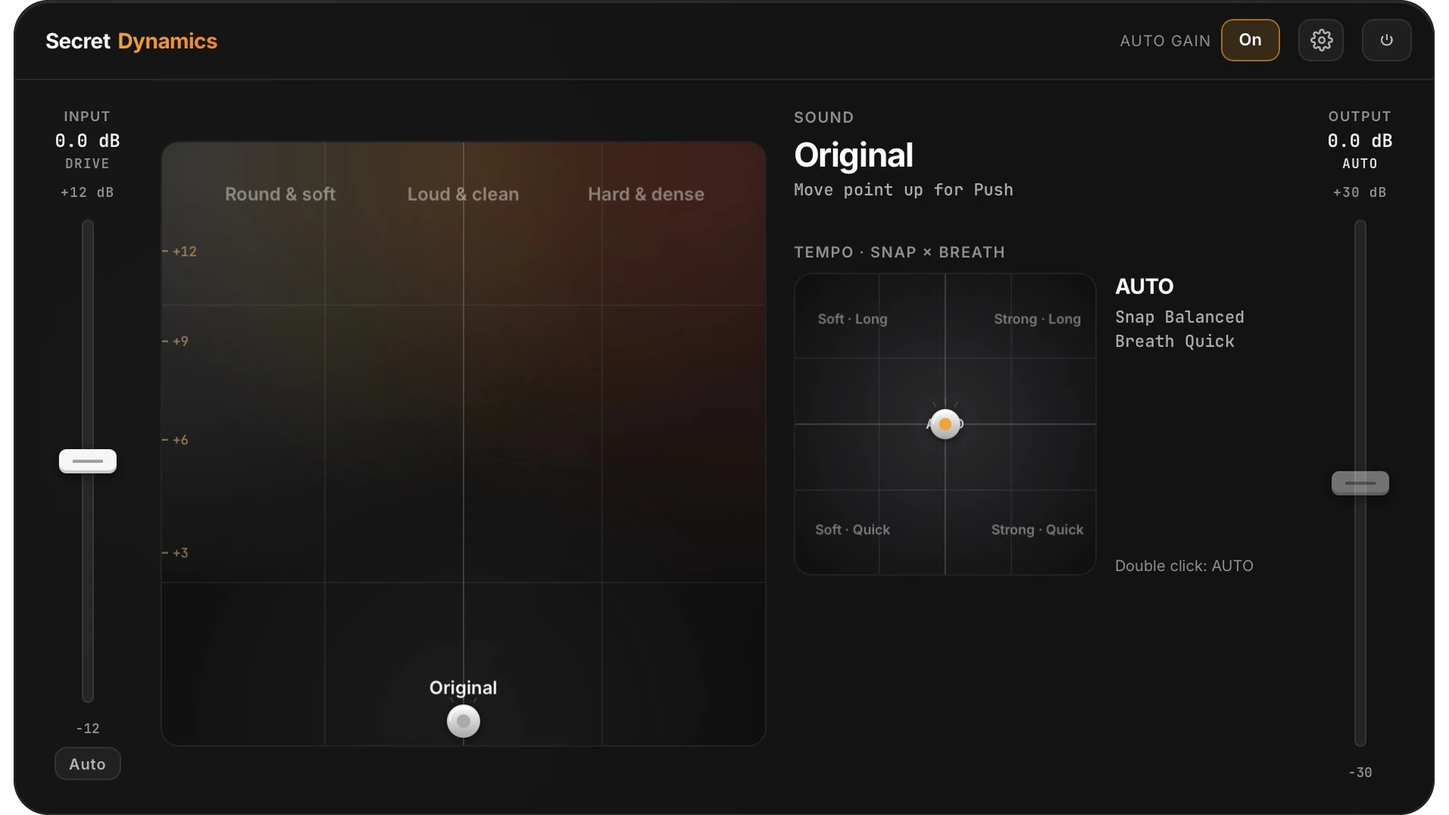
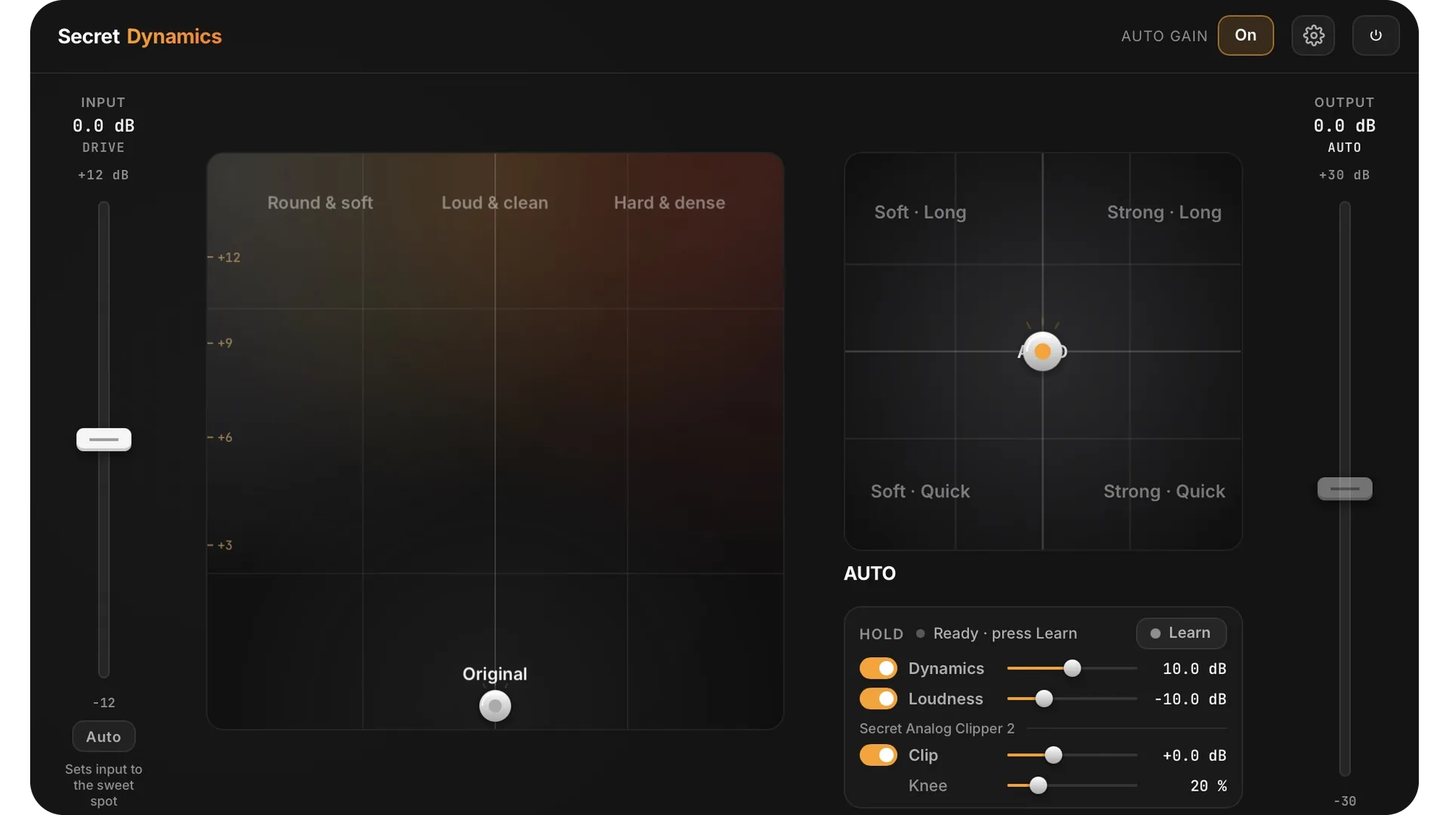
Seite aktualisiert 2026-11-24T13:07:27Z

diff --git a/de/plugins/dynamics/index.html b/de/plugins/dynamics/index.html
@@ -3,10 +3,10 @@
 <head>
 <meta charset="utf-8">
 <meta name="viewport" content="width=device-width,initial-scale=1">
-<title>Secret Dynamics – Secret Audio</title>
-<meta name="description" content="Secret Dynamics: Mehr Druck. Ein gleichmäßiger Pegel. Deine Musik bleibt lebendig. Wähle einen runden, weichen Klang oder ein festes, dichtes Gefühl. Deine Musik bleibt lebendig.">
-<meta property="og:title" content="Secret Dynamics – Secret Audio">
-<meta property="og:description" content="Secret Dynamics: Mehr Druck. Ein gleichmäßiger Pegel. Deine Musik bleibt lebendig. Wähle einen runden, weichen Klang oder ein festes, dichtes Gefühl. Deine Musik bleibt lebendig.">
+<title>Secret Dynamics 3 – Secret Audio</title>
+<meta name="description" content="Secret Dynamics 3: Mehr Druck. Ein gleichmäßiger Pegel. Deine Musik bleibt lebendig. Wähle rund und weich, laut und klar oder hart und dicht. Deine Musik bleibt lebendig.">
+<meta property="og:title" content="Secret Dynamics 3 – Secret Audio">
+<meta property="og:description" content="Secret Dynamics 3: Mehr Druck. Ein gleichmäßiger Pegel. Deine Musik bleibt lebendig. Wähle rund und weich, laut und klar oder hart und dicht. Deine Musik bleibt lebendig.">
 <meta property="og:image" content="https://plugins.secret.vip/media/dynamics-poster.webp">
 <meta name="theme-color" content="#050505">
 <!--live-icons-->
@@ -73,12 +73,12 @@ input,textarea{-webkit-user-select:text;user-select:text}
   <div class="wrap stage-copy">
     <div>
       <div class="eyebrow">Secret Audio &middot; Dynamik <span class="status live">Erhältlich</span></div>
-      <h1 id="product-title">Secret Dynamics</h1>
+      <h1 id="product-title">Secret Dynamics 3</h1>
       <p class="lead pp-promise">Mehr Druck. Ein gleichmäßiger Pegel. Deine Musik bleibt lebendig.</p>
       <div class="buy pp-buy"><div class="price" data-price="SecretDynamicsRelease"><span class="now"></span><span class="tag" hidden>EINFÜHRUNGSPREIS</span></div><button class="btn" data-buy="SecretDynamicsRelease" disabled>Bald erhältlich</button></div>
       <ul class="pp-assure"><li>14-tägige Geld-zurück-Garantie</li><li>Für Mac und Windows</li><li>VST3 und CLAP, dazu AU auf dem Mac</li><li>Preis inkl. MwSt., wo sie anfällt</li></ul>
     </div>
-    <figure class="pp-shot"><img src="../../../media/dynamics-poster-720.webp" srcset="../../../media/dynamics-poster-720.webp 1280w, ../../../media/dynamics-poster.webp 1920w" sizes="(max-width: 900px) 100vw, 58vw" width="1920" height="1080" alt="Secret Dynamics mit festem, dichtem Klang" fetchpriority="high" decoding="async"></figure>
+    <figure class="pp-shot"><img src="../../../media/dynamics-poster-720.webp" srcset="../../../media/dynamics-poster-720.webp 1280w, ../../../media/dynamics-poster.webp 1920w" sizes="(max-width: 900px) 100vw, 58vw" width="1920" height="1080" alt="Secret Dynamics 3 mit Klangfeld, Tempo-Feld und Halten" fetchpriority="high" decoding="async"></figure>
   </div>
 </section>
 <main>
@@ -86,28 +86,28 @@ input,textarea{-webkit-user-select:text;user-select:text}
     <section class="pp-section" aria-labelledby="why-title" data-reveal>
       <p class="pp-kicker">Was du bekommst</p>
       <h2 id="why-title">Was es für deinen Track tut</h2>
-      <ol class="pp-benefits"><li><h3>Dein Klang, deine Wahl</h3><p>Gib deiner Musik mehr Druck, ein runderes Gefühl oder einen festen, dichten Charakter.</p></li><li><h3>Tempo, das man spürt</h3><p>Wähle ein lebendiges, schnelles Gefühl oder lass den Klang sanft mit deiner Musik nachgeben.</p></li><li><h3>Entscheide nach Gehör, nicht nach Lautstärke</h3><p>Vergleiche das Klanggefühl und wähle, was zu deiner Musik passt.</p></li><li><h3>Dein Klang im Gleichgewicht</h3><p>Finde die Balance zwischen einer sanften Note und einem kräftigen Klang im Vordergrund.</p></li><li><h3>Zwei Charaktere</h3><p>Straff, klar und direkt oder eine rundere Kante mit analoger Wärme. Ein Klick zum Wechseln.</p></li><li><h3>Bereit fürs Live-Spielen</h3><p>Genieße ein direktes, unmittelbares Gefühl beim Spielen und Aufnehmen.</p></li></ol>
+      <ol class="pp-benefits"><li><h3>Dein Klang, deine Wahl</h3><p>Rund und weich, laut und klar oder hart und dicht. Weiter oben im Feld gibt es mehr Druck.</p></li><li><h3>Tempo, das man spürt</h3><p>Wähle ein lebendiges, schnelles Gefühl oder lass den Klang sanft mit deiner Musik nachgeben.</p></li><li><h3>Entscheide nach Gehör, nicht nach Lautstärke</h3><p>Auto Gain hält den Pegel gleich. So beurteilst du das Gefühl, nicht nur mehr Lautstärke.</p></li><li><h3>Laut und gleichmäßig</h3><p>Ein letzter Schliff bringt mehr Lautheit, der Druck bleibt. Einmal lernen, dann hält es deinen Pegel gleichmäßig.</p></li><li><h3>Zwei Charaktere</h3><p>Straff, klar und direkt oder eine rundere Kante mit analoger Wärme. Ein Klick zum Wechseln.</p></li><li><h3>Bereit fürs Live-Spielen</h3><p>Genieße ein direktes, unmittelbares Gefühl beim Spielen und Aufnehmen.</p></li></ol>
     </section>
     <section class="pp-section" aria-labelledby="see-title" data-reveal>
       <p class="pp-kicker">Ansehen</p>
       <h2 id="see-title">Die echte Oberfläche</h2>
-      <figure class="pp-picture"><img src="../../../media/dynamics-poster-720.webp" srcset="../../../media/dynamics-poster-720.webp 1280w, ../../../media/dynamics-poster.webp 1920w" sizes="(max-width: 1360px) 100vw, 1360px" width="1920" height="1080" alt="Secret Dynamics mit festem, dichtem Klang" loading="lazy" decoding="async"><figcaption>Ein echter Screenshot des Plugins in einer DAW, während Musik läuft.</figcaption></figure>
-      <div class="zoom"><figure><img src="../../../media/dynamics-still-1.webp" width="800" height="450" loading="lazy" decoding="async" alt="Secret Dynamics: Dein Klang"><figcaption>01 &middot; Dein Klang</figcaption></figure><figure><img src="../../../media/dynamics-still-2.webp" width="800" height="450" loading="lazy" decoding="async" alt="Secret Dynamics: Das Gefühl deiner Musik"><figcaption>02 &middot; Das Gefühl deiner Musik</figcaption></figure><figure><img src="../../../media/dynamics-still-3.webp" width="800" height="450" loading="lazy" decoding="async" alt="Secret Dynamics: Deine Wahl"><figcaption>03 &middot; Deine Wahl</figcaption></figure></div>
+      <figure class="pp-picture"><img src="../../../media/dynamics-poster-720.webp" srcset="../../../media/dynamics-poster-720.webp 1280w, ../../../media/dynamics-poster.webp 1920w" sizes="(max-width: 1360px) 100vw, 1360px" width="1920" height="1080" alt="Secret Dynamics 3 mit Klangfeld, Tempo-Feld und Halten" loading="lazy" decoding="async"><figcaption>Ein echter Screenshot des Plugins in einer DAW.</figcaption></figure>
+      <div class="zoom"><figure><img src="../../../media/dynamics-still-1.webp" width="800" height="450" loading="lazy" decoding="async" alt="Secret Dynamics 3: Dein Klang"><figcaption>01 &middot; Dein Klang</figcaption></figure><figure><img src="../../../media/dynamics-still-2.webp" width="800" height="450" loading="lazy" decoding="async" alt="Secret Dynamics 3: Das Gefühl deiner Musik"><figcaption>02 &middot; Das Gefühl deiner Musik</figcaption></figure><figure><img src="../../../media/dynamics-still-3.webp" width="800" height="450" loading="lazy" decoding="async" alt="Secret Dynamics 3: Laut und gleichmäßig"><figcaption>03 &middot; Laut und gleichmäßig</figcaption></figure></div>
     </section>
     <section class="pp-section" aria-labelledby="trust-title" data-reveal>
       <p class="pp-kicker">Ohne Risiko kaufen</p>
       <h2 id="trust-title">Einfach und fair</h2>
-      <ul class="pp-trust"><li><h3>14-tägige Geld-zurück-Garantie</h3><p>Nicht das Richtige? Du bekommst innerhalb von 14 Tagen nach dem Kauf den vollen Preis zurück. Ohne Angabe von Gründen, auch wenn du es schon installiert und benutzt hast. <a href="../../refund/">Bedingungen</a></p></li><li><h3>Sicher bezahlen über Paddle</h3><p>Unser Bestellvorgang wird von unserem Online-Wiederverkäufer Paddle.com abgewickelt. Paddle.com ist der Merchant of Record für alle unsere Bestellungen. Paddle beantwortet alle Kundenanfragen und wickelt Rückgaben ab. Paddle kümmert sich um Zahlung, Rechnung und MwSt. und schickt dir den Beleg. <a href="https://www.paddle.com/legal/checkout-buyer-terms">Verkaufsbedingungen von Paddle</a></p></li><li><h3>Kostenlose Updates in Version 1</h3><p>Jedes 1.x-Update ist enthalten. Kein Abo &ndash; die Lizenz hat keine Zeitgrenze.</p></li></ul>
+      <ul class="pp-trust"><li><h3>14-tägige Geld-zurück-Garantie</h3><p>Nicht das Richtige? Du bekommst innerhalb von 14 Tagen nach dem Kauf den vollen Preis zurück. Ohne Angabe von Gründen, auch wenn du es schon installiert und benutzt hast. <a href="../../refund/">Bedingungen</a></p></li><li><h3>Sicher bezahlen über Paddle</h3><p>Unser Bestellvorgang wird von unserem Online-Wiederverkäufer Paddle.com abgewickelt. Paddle.com ist der Merchant of Record für alle unsere Bestellungen. Paddle beantwortet alle Kundenanfragen und wickelt Rückgaben ab. Paddle kümmert sich um Zahlung, Rechnung und MwSt. und schickt dir den Beleg. <a href="https://www.paddle.com/legal/checkout-buyer-terms">Verkaufsbedingungen von Paddle</a></p></li><li><h3>Kostenlose Updates in Version 3</h3><p>Jedes 3.x-Update ist enthalten. Kein Abo &ndash; die Lizenz hat keine Zeitgrenze.</p></li></ul>
     </section>
     <section class="pp-section" id="specs" aria-labelledby="specs-title" data-reveal>
       <p class="pp-kicker">Kompatibilität</p>
       <h2 id="specs-title">Passt zu deinem Setup</h2>
-      <ul class="specs pp-specs"><li><b>Mac</b>macOS 12 oder neuer, Apple Silicon und Intel</li><li><b>Windows</b>Windows 10 und 11, 64 Bit</li><li><b>Formate</b>Mac: VST3, AU, CLAP. Windows: VST3, CLAP.</li><li><b>Lizenz</b>Eine Lizenz für zwei Computer gleichzeitig. <a href="../../eula/">Lizenzbedingungen</a></li><li><b>Aktivierung</b>Mit deinem Lizenzschlüssel</li><li><b>Updates</b>Kostenlos innerhalb von Version 1</li></ul>
+      <ul class="specs pp-specs"><li><b>Mac</b>macOS 12 oder neuer, Apple Silicon und Intel</li><li><b>Windows</b>Windows 10 und 11, 64 Bit</li><li><b>Formate</b>Mac: VST3, AU, CLAP. Windows: VST3, CLAP.</li><li><b>Lizenz</b>Eine Lizenz für zwei Computer gleichzeitig. <a href="../../eula/">Lizenzbedingungen</a></li><li><b>Aktivierung</b>Mit deinem Lizenzschlüssel</li><li><b>Updates</b>Kostenlos innerhalb von Version 3</li></ul>
     </section>
     <section class="pp-section pp-close" aria-labelledby="close-title" data-reveal>
       <div class="pp-close-box">
         <div>
-          <p class="pp-kicker">Secret Dynamics</p>
+          <p class="pp-kicker">Secret Dynamics 3</p>
           <h2 id="close-title">Bereit, wenn du es bist.</h2>
         </div>
         <div>

diff --git a/plugins/dynamics/index.html b/plugins/dynamics/index.html
@@ -3,10 +3,10 @@
 <head>
 <meta charset="utf-8">
 <meta name="viewport" content="width=device-width,initial-scale=1">
-<title>Secret Dynamics – Secret Audio</title>
-<meta name="description" content="Secret Dynamics: More punch. A steady level. Keep the life in your music. Choose a round, soft sound or a firm, dense feel. Keep the life in your music.">
-<meta property="og:title" content="Secret Dynamics – Secret Audio">
-<meta property="og:description" content="Secret Dynamics: More punch. A steady level. Keep the life in your music. Choose a round, soft sound or a firm, dense feel. Keep the life in your music.">
+<title>Secret Dynamics 3 – Secret Audio</title>
+<meta name="description" content="Secret Dynamics 3: More punch. A steady level. Keep the life in your music. Choose round and soft, loud and clean, or hard and dense. Keep the life in your music.">
+<meta property="og:title" content="Secret Dynamics 3 – Secret Audio">
+<meta property="og:description" content="Secret Dynamics 3: More punch. A steady level. Keep the life in your music. Choose round and soft, loud and clean, or hard and dense. Keep the life in your music.">
 <meta property="og:image" content="https://plugins.secret.vip/media/dynamics-poster.webp">
 <meta name="theme-color" content="#050505">
 <!--live-icons-->
@@ -73,12 +73,12 @@ input,textarea{-webkit-user-select:text;user-select:text}
   <div class="wrap stage-copy">
     <div>
       <div class="eyebrow">Secret Audio &middot; Dynamics <span class="status live">Available</span></div>
-      <h1 id="product-title">Secret Dynamics</h1>
+      <h1 id="product-title">Secret Dynamics 3</h1>
       <p class="lead pp-promise">More punch. A steady level. Keep the life in your music.</p>
       <div class="buy pp-buy"><div class="price" data-price="SecretDynamicsRelease"><span class="now"></span><span class="tag" hidden>LAUNCH PRICE</span></div><button class="btn" data-buy="SecretDynamicsRelease" disabled>Available soon</button></div>
       <ul class="pp-assure"><li>14-day money-back guarantee</li><li>For Mac and Windows</li><li>VST3 and CLAP, plus AU on Mac</li><li>Price incl. VAT where it applies</li></ul>
     </div>
-    <figure class="pp-shot"><img src="../../media/dynamics-poster-720.webp" srcset="../../media/dynamics-poster-720.webp 1280w, ../../media/dynamics-poster.webp 1920w" sizes="(max-width: 900px) 100vw, 58vw" width="1920" height="1080" alt="Secret Dynamics with a firm, dense sound" fetchpriority="high" decoding="async"></figure>
+    <figure class="pp-shot"><img src="../../media/dynamics-poster-720.webp" srcset="../../media/dynamics-poster-720.webp 1280w, ../../media/dynamics-poster.webp 1920w" sizes="(max-width: 900px) 100vw, 58vw" width="1920" height="1080" alt="Secret Dynamics 3 with the sound field, the tempo field and Hold" fetchpriority="high" decoding="async"></figure>
   </div>
 </section>
 <main>
@@ -86,28 +86,28 @@ input,textarea{-webkit-user-select:text;user-select:text}
     <section class="pp-section" aria-labelledby="why-title" data-reveal>
       <p class="pp-kicker">What you get</p>
       <h2 id="why-title">What it does for your track</h2>
-      <ol class="pp-benefits"><li><h3>Your sound, your choice</h3><p>Give your music more push, a rounder feel or a firm, dense character.</p></li><li><h3>Tempo you can feel</h3><p>Choose a lively, quick feel or let the sound ease back gently with your groove.</p></li><li><h3>Decide by ear, not by volume</h3><p>Compare the feel of your sound and choose what suits the music.</p></li><li><h3>Your sound in balance</h3><p>Find the balance between a gentle touch and a strong, forward sound.</p></li><li><h3>Two characters</h3><p>Tight, clear and direct, or a rounder edge with analog warmth. One click to switch.</p></li><li><h3>Ready for playing live</h3><p>Enjoy a direct, responsive feel while playing and recording.</p></li></ol>
+      <ol class="pp-benefits"><li><h3>Your sound, your choice</h3><p>Round and soft, loud and clean, or hard and dense. Go higher in the field for more push.</p></li><li><h3>Tempo you can feel</h3><p>Choose a lively, quick feel or let the sound ease back gently with your groove.</p></li><li><h3>Decide by ear, not by volume</h3><p>Auto Gain keeps the level even, so you judge the feel, not just more volume.</p></li><li><h3>Loud and steady</h3><p>A final touch adds loudness and keeps your punch. Press Learn and Hold keeps your level steady.</p></li><li><h3>Two characters</h3><p>Tight, clear and direct, or a rounder edge with analog warmth. One click to switch.</p></li><li><h3>Ready for playing live</h3><p>Enjoy a direct, responsive feel while playing and recording.</p></li></ol>
     </section>
     <section class="pp-section" aria-labelledby="see-title" data-reveal>
       <p class="pp-kicker">See it</p>
       <h2 id="see-title">The real interface</h2>
-      <figure class="pp-picture"><img src="../../media/dynamics-poster-720.webp" srcset="../../media/dynamics-poster-720.webp 1280w, ../../media/dynamics-poster.webp 1920w" sizes="(max-width: 1360px) 100vw, 1360px" width="1920" height="1080" alt="Secret Dynamics with a firm, dense sound" loading="lazy" decoding="async"><figcaption>A real screenshot of the plugin in a DAW, with music playing.</figcaption></figure>
-      <div class="zoom"><figure><img src="../../media/dynamics-still-1.webp" width="800" height="450" loading="lazy" decoding="async" alt="Secret Dynamics: Your sound"><figcaption>01 &middot; Your sound</figcaption></figure><figure><img src="../../media/dynamics-still-2.webp" width="800" height="450" loading="lazy" decoding="async" alt="Secret Dynamics: The feel of your groove"><figcaption>02 &middot; The feel of your groove</figcaption></figure><figure><img src="../../media/dynamics-still-3.webp" width="800" height="450" loading="lazy" decoding="async" alt="Secret Dynamics: Your choice"><figcaption>03 &middot; Your choice</figcaption></figure></div>
+      <figure class="pp-picture"><img src="../../media/dynamics-poster-720.webp" srcset="../../media/dynamics-poster-720.webp 1280w, ../../media/dynamics-poster.webp 1920w" sizes="(max-width: 1360px) 100vw, 1360px" width="1920" height="1080" alt="Secret Dynamics 3 with the sound field, the tempo field and Hold" loading="lazy" decoding="async"><figcaption>A real screenshot of the plugin in a DAW.</figcaption></figure>
+      <div class="zoom"><figure><img src="../../media/dynamics-still-1.webp" width="800" height="450" loading="lazy" decoding="async" alt="Secret Dynamics 3: Your sound"><figcaption>01 &middot; Your sound</figcaption></figure><figure><img src="../../media/dynamics-still-2.webp" width="800" height="450" loading="lazy" decoding="async" alt="Secret Dynamics 3: The feel of your groove"><figcaption>02 &middot; The feel of your groove</figcaption></figure><figure><img src="../../media/dynamics-still-3.webp" width="800" height="450" loading="lazy" decoding="async" alt="Secret Dynamics 3: Loud and steady"><figcaption>03 &middot; Loud and steady</figcaption></figure></div>
     </section>
     <section class="pp-section" aria-labelledby="trust-title" data-reveal>
       <p class="pp-kicker">Buy without risk</p>
       <h2 id="trust-title">Simple and fair</h2>
-      <ul class="pp-trust"><li><h3>14-day money-back guarantee</h3><p>Not for you? Get the full price back within 14 days of purchase. No reason needed, even after you have installed and used it. <a href="../../refund/">Refund terms</a></p></li><li><h3>Secure checkout by Paddle</h3><p>Our order process is conducted by our online reseller Paddle.com. Paddle.com is the Merchant of Record for all our orders. Paddle provides all customer service inquiries and handles returns. It handles payment, invoice and VAT, and sends your receipt. <a href="https://www.paddle.com/legal/checkout-buyer-terms">Paddle terms of sale</a></p></li><li><h3>Free updates in version 1</h3><p>Every 1.x update is included. No subscription &ndash; the license has no time limit.</p></li></ul>
+      <ul class="pp-trust"><li><h3>14-day money-back guarantee</h3><p>Not for you? Get the full price back within 14 days of purchase. No reason needed, even after you have installed and used it. <a href="../../refund/">Refund terms</a></p></li><li><h3>Secure checkout by Paddle</h3><p>Our order process is conducted by our online reseller Paddle.com. Paddle.com is the Merchant of Record for all our orders. Paddle provides all customer service inquiries and handles returns. It handles payment, invoice and VAT, and sends your receipt. <a href="https://www.paddle.com/legal/checkout-buyer-terms">Paddle terms of sale</a></p></li><li><h3>Free updates in version 3</h3><p>Every 3.x update is included. No subscription &ndash; the license has no time limit.</p></li></ul>
     </section>
     <section class="pp-section" id="specs" aria-labelledby="specs-title" data-reveal>
       <p class="pp-kicker">Compatibility</p>
       <h2 id="specs-title">Works in your setup</h2>
-      <ul class="specs pp-specs"><li><b>Mac</b>macOS 12 or newer, Apple Silicon and Intel</li><li><b>Windows</b>Windows 10 and 11, 64-bit</li><li><b>Formats</b>Mac: VST3, AU, CLAP. Windows: VST3, CLAP.</li><li><b>License</b>One license for two computers at the same time. <a href="../../eula/">License terms</a></li><li><b>Activation</b>With your license key</li><li><b>Updates</b>Free within version 1</li></ul>
+      <ul class="specs pp-specs"><li><b>Mac</b>macOS 12 or newer, Apple Silicon and Intel</li><li><b>Windows</b>Windows 10 and 11, 64-bit</li><li><b>Formats</b>Mac: VST3, AU, CLAP. Windows: VST3, CLAP.</li><li><b>License</b>One license for two computers at the same time. <a href="../../eula/">License terms</a></li><li><b>Activation</b>With your license key</li><li><b>Updates</b>Free within version 3</li></ul>
     </section>
     <section class="pp-section pp-close" aria-labelledby="close-title" data-reveal>
       <div class="pp-close-box">
         <div>
-          <p class="pp-kicker">Secret Dynamics</p>
+          <p class="pp-kicker">Secret Dynamics 3</p>
           <h2 id="close-title">Ready when you are.</h2>
         </div>
         <div>

diff --git a/de/index.html b/de/index.html
@@ -99,13 +99,13 @@
     <a class="text-link" href="plugins/clipper/">Secret Clipper entdecken <span class="arrow" aria-hidden="true">&rarr;</span></a>
   </div>
 </article><article class="scene" id="dynamics" data-reveal>
-  <a class="scene-film film-link" href="plugins/dynamics/" tabindex="-1" aria-hidden="true"><div class="film "><img src="../media/dynamics-poster.webp" srcset="../media/dynamics-poster-720.webp 1280w, ../media/dynamics-poster.webp 1920w" sizes="(max-width: 900px) 100vw, 64vw" width="1920" height="1080" alt="Secret Dynamics mit festem, dichtem Klang" loading="lazy" decoding="async"></div></a>
+  <a class="scene-film film-link" href="plugins/dynamics/" tabindex="-1" aria-hidden="true"><div class="film "><img src="../media/dynamics-poster.webp" srcset="../media/dynamics-poster-720.webp 1280w, ../media/dynamics-poster.webp 1920w" sizes="(max-width: 900px) 100vw, 64vw" width="1920" height="1080" alt="Secret Dynamics 3 mit Klangfeld, Tempo-Feld und Halten" loading="lazy" decoding="async"></div></a>
   <div class="scene-copy">
     <span class="index">06</span><span class="status live">Erhältlich</span>
-    <h2>Secret Dynamics</h2>
+    <h2>Secret Dynamics 3</h2>
     <p>Mehr Druck. Ein gleichmäßiger Pegel. Deine Musik bleibt lebendig.</p>
-    <ul class="facts"><li><b>Dein Klang.</b> Rund und weich oder fest und dicht.</li><li><b>Hör den Unterschied.</b> Das Gefühl deiner Musik zählt.</li><li><b>Mac und Windows.</b> Mac: VST3, AU, CLAP. Windows: VST3, CLAP.</li></ul>
-    <a class="text-link" href="plugins/dynamics/">Secret Dynamics entdecken <span class="arrow" aria-hidden="true">&rarr;</span></a>
+    <ul class="facts"><li><b>Dein Klang.</b> Rund und weich, laut und klar oder hart und dicht.</li><li><b>Hör den Unterschied.</b> Das Gefühl deiner Musik zählt.</li><li><b>Mac und Windows.</b> Mac: VST3, AU, CLAP. Windows: VST3, CLAP.</li></ul>
+    <a class="text-link" href="plugins/dynamics/">Secret Dynamics 3 entdecken <span class="arrow" aria-hidden="true">&rarr;</span></a>
   </div>
 </article>
     <section class="free-catalog" aria-labelledby="free-title"><h2 id="free-title">Kostenlose Tools</h2><p>Direkt herunterladen. Kein Kauf und kein Lizenzschlüssel nötig.</p><div class="free-grid" data-free-products aria-busy="true" data-free-failure="Die Gratis-Plugins können gerade nicht geladen werden."><p data-free-catalog-fallback>Gratis-Plugins werden geladen…</p></div></section>

diff --git a/index.html b/index.html
@@ -102,13 +102,13 @@
     <a class="text-link" href="plugins/clipper/">Explore Secret Clipper <span class="arrow" aria-hidden="true">&rarr;</span></a>
   </div>
 </article><article class="scene" id="dynamics" data-reveal>
-  <a class="scene-film film-link" href="plugins/dynamics/" tabindex="-1" aria-hidden="true"><div class="film "><img src="media/dynamics-poster.webp" srcset="media/dynamics-poster-720.webp 1280w, media/dynamics-poster.webp 1920w" sizes="(max-width: 900px) 100vw, 64vw" width="1920" height="1080" alt="Secret Dynamics with a firm, dense sound" loading="lazy" decoding="async"></div></a>
+  <a class="scene-film film-link" href="plugins/dynamics/" tabindex="-1" aria-hidden="true"><div class="film "><img src="media/dynamics-poster.webp" srcset="media/dynamics-poster-720.webp 1280w, media/dynamics-poster.webp 1920w" sizes="(max-width: 900px) 100vw, 64vw" width="1920" height="1080" alt="Secret Dynamics 3 with the sound field, the tempo field and Hold" loading="lazy" decoding="async"></div></a>
   <div class="scene-copy">
     <span class="index">06</span><span class="status live">Available</span>
-    <h2>Secret Dynamics</h2>
+    <h2>Secret Dynamics 3</h2>
     <p>More punch. A steady level. Keep the life in your music.</p>
-    <ul class="facts"><li><b>Your sound.</b> Round and soft or firm and dense.</li><li><b>Hear the difference.</b> Focus on the feel of your music.</li><li><b>Mac and Windows.</b> Mac: VST3, AU, CLAP. Windows: VST3, CLAP.</li></ul>
-    <a class="text-link" href="plugins/dynamics/">Explore Secret Dynamics <span class="arrow" aria-hidden="true">&rarr;</span></a>
+    <ul class="facts"><li><b>Your sound.</b> Round and soft, loud and clean, or hard and dense.</li><li><b>Hear the difference.</b> Focus on the feel of your music.</li><li><b>Mac and Windows.</b> Mac: VST3, AU, CLAP. Windows: VST3, CLAP.</li></ul>
+    <a class="text-link" href="plugins/dynamics/">Explore Secret Dynamics 3 <span class="arrow" aria-hidden="true">&rarr;</span></a>
   </div>
 </article>
     <section class="free-catalog" aria-labelledby="free-title"><h2 id="free-title">Free tools</h2><p>Download directly. No purchase or license key needed.</p><div class="free-grid" data-free-products aria-busy="true" data-free-failure="Free tools cannot be loaded right now."><p data-free-catalog-fallback>Loading free tools…</p></div></section>

diff --git a/de/plugins/notes/index.html b/de/plugins/notes/index.html
@@ -47,7 +47,7 @@
     </section>
     <section data-reveal>
       <h2>Die Familie</h2>
-      <ul class="family"><li><a href="../../plugins/future-eq/"><span class="index">01</span><span class="name">Secret Future EQ 2</span><span class="status live">Erhältlich</span></a></li><li><a href="../../plugins/parametric-eq/"><span class="index">03</span><span class="name">Secret Parametric EQ</span><span class="status dev">In Entwicklung</span></a></li><li><a href="../../plugins/analyser/"><span class="index">04</span><span class="name">Secret Analyser</span><span class="status free">Gratis</span></a></li><li><a href="../../plugins/clipper/"><span class="index">05</span><span class="name">Secret Clipper</span><span class="status dev">In Entwicklung</span></a></li><li><a href="../../plugins/dynamics/"><span class="index">06</span><span class="name">Secret Dynamics</span><span class="status live">Erhältlich</span></a></li></ul>
+      <ul class="family"><li><a href="../../plugins/future-eq/"><span class="index">01</span><span class="name">Secret Future EQ 2</span><span class="status live">Erhältlich</span></a></li><li><a href="../../plugins/parametric-eq/"><span class="index">03</span><span class="name">Secret Parametric EQ</span><span class="status dev">In Entwicklung</span></a></li><li><a href="../../plugins/analyser/"><span class="index">04</span><span class="name">Secret Analyser</span><span class="status free">Gratis</span></a></li><li><a href="../../plugins/clipper/"><span class="index">05</span><span class="name">Secret Clipper</span><span class="status dev">In Entwicklung</span></a></li><li><a href="../../plugins/dynamics/"><span class="index">06</span><span class="name">Secret Dynamics 3</span><span class="status live">Erhältlich</span></a></li></ul>
     </section>
   </div>
 <section class="wrap free-download-panel" id="download"><div><h2>Kostenlos herunterladen</h2></div><div data-free-download-product="SecretNotes"><p data-free-download-fallback><a href="../../../de/free/?product=SecretNotes">Alle Downloads</a></p></div></section>

diff --git a/plugins/notes/index.html b/plugins/notes/index.html
@@ -50,7 +50,7 @@
     </section>
     <section data-reveal>
       <h2>The family</h2>
-      <ul class="family"><li><a href="../../plugins/future-eq/"><span class="index">01</span><span class="name">Secret Future EQ 2</span><span class="status live">Available</span></a></li><li><a href="../../plugins/parametric-eq/"><span class="index">03</span><span class="name">Secret Parametric EQ</span><span class="status dev">In development</span></a></li><li><a href="../../plugins/analyser/"><span class="index">04</span><span class="name">Secret Analyser</span><span class="status free">Free</span></a></li><li><a href="../../plugins/clipper/"><span class="index">05</span><span class="name">Secret Clipper</span><span class="status dev">In development</span></a></li><li><a href="../../plugins/dynamics/"><span class="index">06</span><span class="name">Secret Dynamics</span><span class="status live">Available</span></a></li></ul>
+      <ul class="family"><li><a href="../../plugins/future-eq/"><span class="index">01</span><span class="name">Secret Future EQ 2</span><span class="status live">Available</span></a></li><li><a href="../../plugins/parametric-eq/"><span class="index">03</span><span class="name">Secret Parametric EQ</span><span class="status dev">In development</span></a></li><li><a href="../../plugins/analyser/"><span class="index">04</span><span class="name">Secret Analyser</span><span class="status free">Free</span></a></li><li><a href="../../plugins/clipper/"><span class="index">05</span><span class="name">Secret Clipper</span><span class="status dev">In development</span></a></li><li><a href="../../plugins/dynamics/"><span class="index">06</span><span class="name">Secret Dynamics 3</span><span class="status live">Available</span></a></li></ul>
     </section>
   </div>
 <section class="wrap free-download-panel" id="download"><div><h2>Free download</h2></div><div data-free-download-product="SecretNotes"><p data-free-download-fallback><a href="../../free/?product=SecretNotes">All downloads</a></p></div></section>

diff --git a/de/plugins/clipper/index.html b/de/plugins/clipper/index.html
@@ -46,7 +46,7 @@
     </section>
     <section data-reveal>
       <h2>Die Familie</h2>
-      <ul class="family"><li><a href="../../plugins/future-eq/"><span class="index">01</span><span class="name">Secret Future EQ 2</span><span class="status live">Erhältlich</span></a></li><li><a href="../../plugins/notes/"><span class="index">02</span><span class="name">Secret Notes</span><span class="status free">Kostenlos</span></a></li><li><a href="../../plugins/parametric-eq/"><span class="index">03</span><span class="name">Secret Parametric EQ</span><span class="status dev">In Entwicklung</span></a></li><li><a href="../../plugins/analyser/"><span class="index">04</span><span class="name">Secret Analyser</span><span class="status free">Gratis</span></a></li><li><a href="../../plugins/dynamics/"><span class="index">06</span><span class="name">Secret Dynamics</span><span class="status live">Erhältlich</span></a></li></ul>
+      <ul class="family"><li><a href="../../plugins/future-eq/"><span class="index">01</span><span class="name">Secret Future EQ 2</span><span class="status live">Erhältlich</span></a></li><li><a href="../../plugins/notes/"><span class="index">02</span><span class="name">Secret Notes</span><span class="status free">Kostenlos</span></a></li><li><a href="../../plugins/parametric-eq/"><span class="index">03</span><span class="name">Secret Parametric EQ</span><span class="status dev">In Entwicklung</span></a></li><li><a href="../../plugins/analyser/"><span class="index">04</span><span class="name">Secret Analyser</span><span class="status free">Gratis</span></a></li><li><a href="../../plugins/dynamics/"><span class="index">06</span><span class="name">Secret Dynamics 3</span><span class="status live">Erhältlich</span></a></li></ul>
     </section>
   </div>
 </main>

diff --git a/plugins/clipper/index.html b/plugins/clipper/index.html
@@ -49,7 +49,7 @@
     </section>
     <section data-reveal>
       <h2>The family</h2>
-      <ul class="family"><li><a href="../../plugins/future-eq/"><span class="index">01</span><span class="name">Secret Future EQ 2</span><span class="status live">Available</span></a></li><li><a href="../../plugins/notes/"><span class="index">02</span><span class="name">Secret Notes</span><span class="status free">Free</span></a></li><li><a href="../../plugins/parametric-eq/"><span class="index">03</span><span class="name">Secret Parametric EQ</span><span class="status dev">In development</span></a></li><li><a href="../../plugins/analyser/"><span class="index">04</span><span class="name">Secret Analyser</span><span class="status free">Free</span></a></li><li><a href="../../plugins/dynamics/"><span class="index">06</span><span class="name">Secret Dynamics</span><span class="status live">Available</span></a></li></ul>
+      <ul class="family"><li><a href="../../plugins/future-eq/"><span class="index">01</span><span class="name">Secret Future EQ 2</span><span class="status live">Available</span></a></li><li><a href="../../plugins/notes/"><span class="index">02</span><span class="name">Secret Notes</span><span class="status free">Free</span></a></li><li><a href="../../plugins/parametric-eq/"><span class="index">03</span><span class="name">Secret Parametric EQ</span><span class="status dev">In development</span></a></li><li><a href="../../plugins/analyser/"><span class="index">04</span><span class="name">Secret Analyser</span><span class="status free">Free</span></a></li><li><a href="../../plugins/dynamics/"><span class="index">06</span><span class="name">Secret Dynamics 3</span><span class="status live">Available</span></a></li></ul>
     </section>
   </div>
 </main>

diff --git a/de/plugins/parametric-eq/index.html b/de/plugins/parametric-eq/index.html
@@ -46,7 +46,7 @@
     </section>
     <section data-reveal>
       <h2>Die Familie</h2>
-      <ul class="family"><li><a href="../../plugins/future-eq/"><span class="index">01</span><span class="name">Secret Future EQ 2</span><span class="status live">Erhältlich</span></a></li><li><a href="../../plugins/notes/"><span class="index">02</span><span class="name">Secret Notes</span><span class="status free">Kostenlos</span></a></li><li><a href="../../plugins/analyser/"><span class="index">04</span><span class="name">Secret Analyser</span><span class="status free">Gratis</span></a></li><li><a href="../../plugins/clipper/"><span class="index">05</span><span class="name">Secret Clipper</span><span class="status dev">In Entwicklung</span></a></li><li><a href="../../plugins/dynamics/"><span class="index">06</span><span class="name">Secret Dynamics</span><span class="status live">Erhältlich</span></a></li></ul>
+      <ul class="family"><li><a href="../../plugins/future-eq/"><span class="index">01</span><span class="name">Secret Future EQ 2</span><span class="status live">Erhältlich</span></a></li><li><a href="../../plugins/notes/"><span class="index">02</span><span class="name">Secret Notes</span><span class="status free">Kostenlos</span></a></li><li><a href="../../plugins/analyser/"><span class="index">04</span><span class="name">Secret Analyser</span><span class="status free">Gratis</span></a></li><li><a href="../../plugins/clipper/"><span class="index">05</span><span class="name">Secret Clipper</span><span class="status dev">In Entwicklung</span></a></li><li><a href="../../plugins/dynamics/"><span class="index">06</span><span class="name">Secret Dynamics 3</span><span class="status live">Erhältlich</span></a></li></ul>
     </section>
   </div>
 </main>

diff --git a/plugins/parametric-eq/index.html b/plugins/parametric-eq/index.html
@@ -49,7 +49,7 @@
     </section>
     <section data-reveal>
       <h2>The family</h2>
-      <ul class="family"><li><a href="../../plugins/future-eq/"><span class="index">01</span><span class="name">Secret Future EQ 2</span><span class="status live">Available</span></a></li><li><a href="../../plugins/notes/"><span class="index">02</span><span class="name">Secret Notes</span><span class="status free">Free</span></a></li><li><a href="../../plugins/analyser/"><span class="index">04</span><span class="name">Secret Analyser</span><span class="status free">Free</span></a></li><li><a href="../../plugins/clipper/"><span class="index">05</span><span class="name">Secret Clipper</span><span class="status dev">In development</span></a></li><li><a href="../../plugins/dynamics/"><span class="index">06</span><span class="name">Secret Dynamics</span><span class="status live">Available</span></a></li></ul>
+      <ul class="family"><li><a href="../../plugins/future-eq/"><span class="index">01</span><span class="name">Secret Future EQ 2</span><span class="status live">Available</span></a></li><li><a href="../../plugins/notes/"><span class="index">02</span><span class="name">Secret Notes</span><span class="status free">Free</span></a></li><li><a href="../../plugins/analyser/"><span class="index">04</span><span class="name">Secret Analyser</span><span class="status free">Free</span></a></li><li><a href="../../plugins/clipper/"><span class="index">05</span><span class="name">Secret Clipper</span><span class="status dev">In development</span></a></li><li><a href="../../plugins/dynamics/"><span class="index">06</span><span class="name">Secret Dynamics 3</span><span class="status live">Available</span></a></li></ul>
     </section>
   </div>
 </main>
